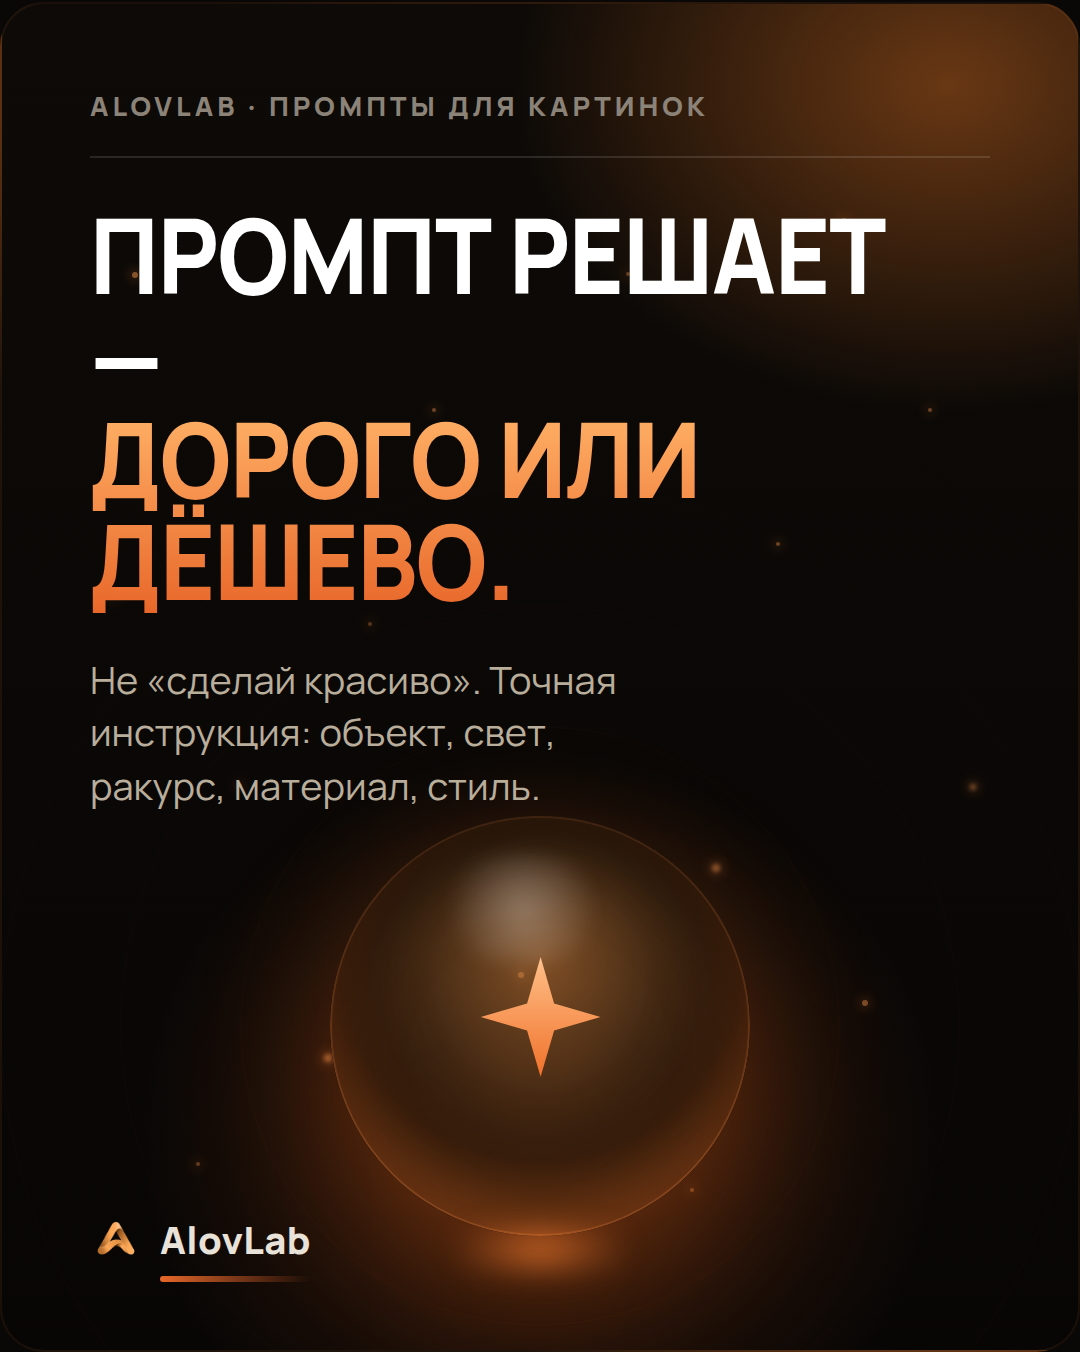
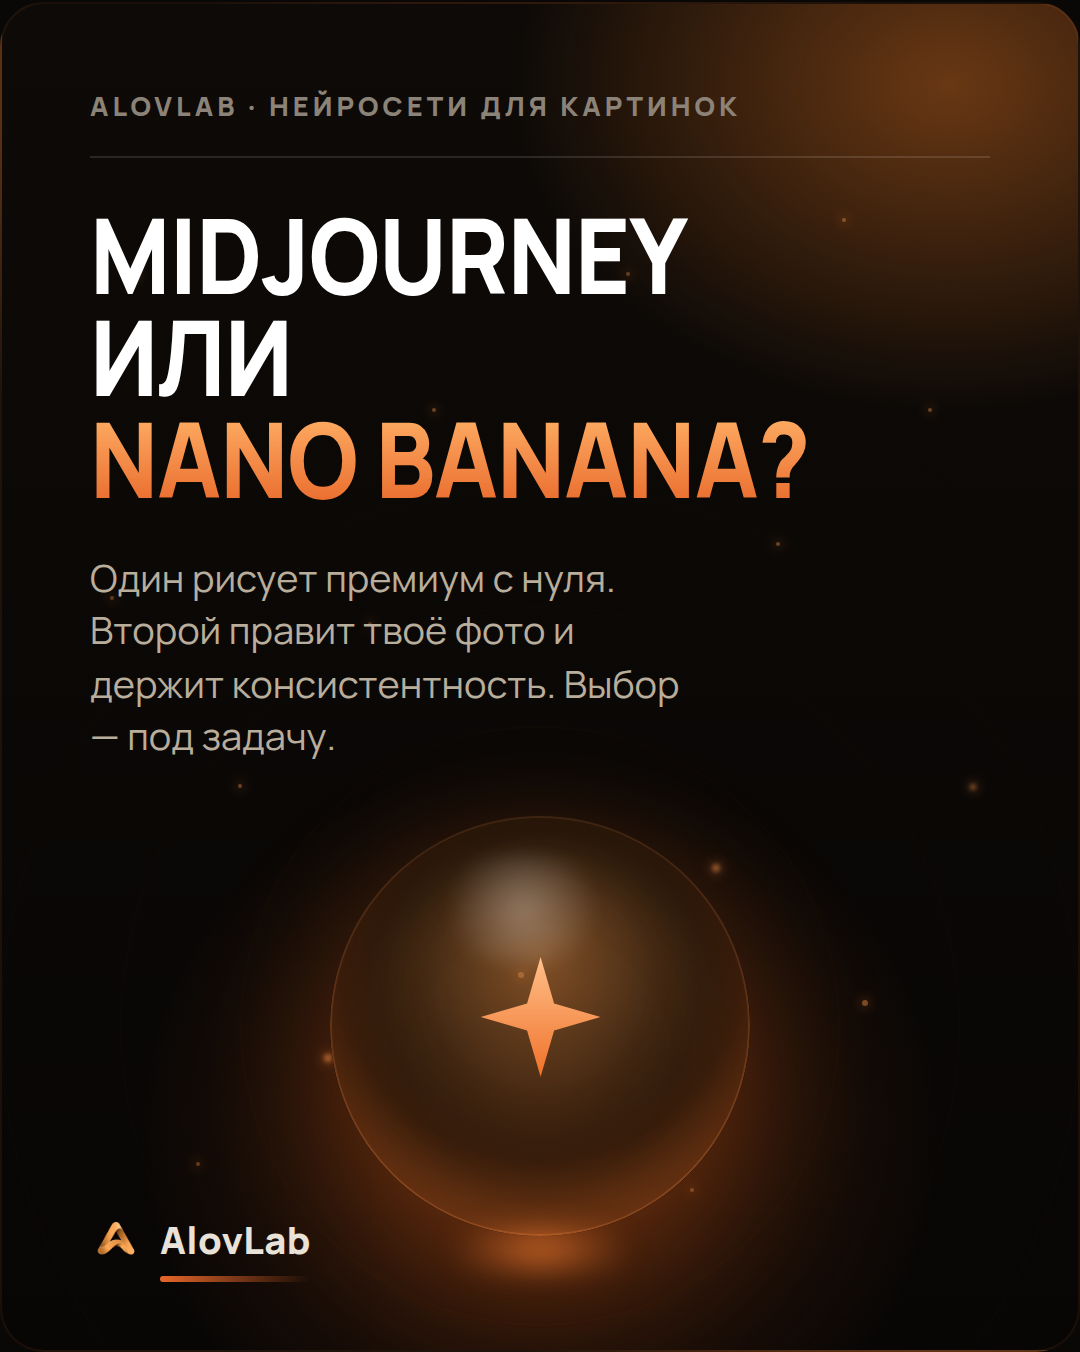
redesign(carousel): промпты под Midjourney + Nano Banana (экспертно)
Переделано под 2 инструмента + другие по смыслу (Ideogram, Higgsfield/Kling, ElevenLabs, HeyGen).
Экспертный уровень: слайд «что чем делать» (MJ с нуля vs Nano Banana редактура/консистентность/текст),
5 задач с правильным инструментом + промпт с синтаксисом (--ar/--style raw/--sref/--cref) + приём,
слайд-конвейер (картинка→видео→голос→аватар). 9 слайдов.

Claude-Session: https://claude.ai/code/session_019LoRMaWcrsShywAHDg8vmg

Changed region(s): [[0.0611, 0.1553, 0.825, 0.5902], [0.275, 0.0621, 0.6722, 0.0932]]

diff --git a/scripts/carousel_showcase_prompts.py b/scripts/carousel_showcase_prompts.py
@@ -1,7 +1,8 @@
 # -*- coding: utf-8 -*-
-"""AlovLab · showcase-карусель «Промпт решает: дорого или дёшево».
-На КАЖДОМ слайде: рисунок темы + ПОЛЬЗА (для чего/бизнес) + НЕЙРОСЕТЬ + готовый ПРОМПТ + разбор.
-Стиль showcase. RU кроме AlovLab и промптов (EN). Запуск: python3 scripts/carousel_showcase_prompts.py
+"""AlovLab · showcase-карусель «Midjourney и Nano Banana: что чем делать» (экспертная).
+На каждом слайде: рисунок темы + КАКОЙ инструмент и почему + бизнес + готовый промпт с синтаксисом + приём.
+Nano Banana = image-модель Google (редактура/консистентность/текст). Midjourney = премиум с нуля.
+Стиль showcase. RU кроме подписи AlovLab и промптов (EN). Запуск: python3 scripts/carousel_showcase_prompts.py
 """
 import pathlib
 from carousel_showcase_render import (CSS as CSS0, DEFS, FOOT, sparks, rings, icon, ICONS, LOGO, ROOT)
@@ -10,53 +11,67 @@ OUTDIR = ROOT / "exports" / "carousels" / "prompts"; OUTDIR.mkdir(parents=True, 
 OUT = OUTDIR / "prompts.html"
 
 EXTRA = r"""
-.hsm .head h2{font-size:36px}
-.info{position:relative;z-index:4;margin-top:16px;display:grid;grid-template-columns:70px 1fr;gap:15px;align-items:center}
-.info .ill{width:70px;height:70px;border-radius:15px;flex:0 0 auto;display:grid;place-items:center;
+.hsm .head h2{font-size:35px}
+.info{position:relative;z-index:4;margin-top:15px;display:grid;grid-template-columns:66px 1fr;gap:14px;align-items:center}
+.info .ill{width:66px;height:66px;border-radius:15px;display:grid;place-items:center;
  background:radial-gradient(circle at 50% 34%,rgba(255,160,80,.28),rgba(22,13,7,.92) 62%);
  border:1px solid rgba(255,160,90,.28);box-shadow:inset 0 -10px 20px rgba(255,120,40,.25),0 10px 26px -10px rgba(255,110,30,.3)}
 .info .ill svg{width:60%;height:60%}
 .info .rows{display:flex;flex-direction:column;gap:6px}
 .info .r{font-size:12.5px;line-height:1.25;color:#fff;font-weight:600}
-.info .r b{display:inline-block;min-width:74px;color:var(--o2);font-weight:800;text-transform:uppercase;font-size:9.5px;letter-spacing:.05em}
-.pbox{position:relative;z-index:4;margin-top:16px;background:#120c06;border:1px solid rgba(255,150,80,.28);
- border-left:3px solid var(--o);border-radius:14px;padding:16px 18px}
+.info .r b{display:inline-block;min-width:72px;color:var(--o2);font-weight:800;text-transform:uppercase;font-size:9.5px;letter-spacing:.05em}
+.info .r i{font-style:normal;color:#b9ad9b}
+.pbox{position:relative;z-index:4;margin-top:14px;background:#120c06;border:1px solid rgba(255,150,80,.28);
+ border-left:3px solid var(--o);border-radius:14px;padding:15px 17px}
 .pbox .tag{display:inline-block;font-weight:800;font-size:9px;letter-spacing:.1em;text-transform:uppercase;color:#160e07;
- background:linear-gradient(150deg,var(--o2),var(--o));padding:5px 10px;border-radius:6px;margin-bottom:11px}
-.pbox code{display:block;font-family:'SF Mono',ui-monospace,Menlo,Consolas,monospace;font-size:12px;line-height:1.52;
+ background:linear-gradient(150deg,var(--o2),var(--o));padding:5px 10px;border-radius:6px;margin-bottom:10px}
+.pbox code{display:block;font-family:'SF Mono',ui-monospace,Menlo,Consolas,monospace;font-size:11.5px;line-height:1.5;
  color:#ffd9b8;white-space:pre-wrap;word-break:break-word}
-.pbox .ru{margin-top:11px;padding-top:10px;border-top:1px solid rgba(255,255,255,.1);font-size:11.5px;line-height:1.4;color:#b9ad9b}
+.pbox .ru{margin-top:10px;padding-top:9px;border-top:1px solid rgba(255,255,255,.1);font-size:11px;line-height:1.38;color:#b9ad9b}
 .pbox .ru b{color:#fff}
+.pbox .tip{margin-top:7px;font-size:11px;line-height:1.35;color:var(--o2);font-weight:700}
+
+.vs{position:relative;z-index:4;margin-top:18px;display:grid;grid-template-columns:1fr 1fr;gap:12px}
+.vp{background:#140e07;border:1px solid rgba(255,150,80,.22);border-radius:16px;padding:16px 15px}
+.vp .nm{font-weight:800;font-size:16px;color:var(--o2);margin-bottom:9px}
+.vp .row{font-size:12px;color:#cfc3b2;line-height:1.3;padding:7px 0;border-top:1px solid rgba(255,255,255,.07)}
+.vp .row:first-of-type{border-top:none}
+
+.pipe{position:relative;z-index:4;margin-top:18px;display:flex;flex-direction:column;gap:9px}
+.pipe .step{display:grid;grid-template-columns:104px 1fr;gap:12px;align-items:center;background:#140e07;
+ border:1px solid rgba(255,150,80,.18);border-radius:13px;padding:13px 15px}
+.pipe .step .k{font-weight:800;font-size:13px;color:#fff}
+.pipe .step .v{font-size:12.5px;color:var(--o2);font-weight:700}
 """
 CSS = CSS0 + EXTRA
 
-# рисунки тем (line-art, оранжевый; используют #ig из DEFS слайда)
 SUB = {
  "dish":  '<svg viewBox="0 0 100 100" fill="none"><ellipse cx="50" cy="64" rx="33" ry="9" stroke="url(#ig)" stroke-width="5"/><path d="M35 60c3-12 27-12 30 0" stroke="url(#ig)" stroke-width="5"/><path d="M45 42c-3-8 4-11 2-19M55 44c-2-6 3-9 2-15" stroke="url(#ig)" stroke-width="4" opacity=".85" stroke-linecap="round"/></svg>',
- "bottle":'<svg viewBox="0 0 100 100" fill="none"><rect x="38" y="36" width="24" height="42" rx="6" stroke="url(#ig)" stroke-width="5"/><rect x="44" y="22" width="12" height="14" rx="2" stroke="url(#ig)" stroke-width="5"/><path d="M44 52h12" stroke="url(#ig)" stroke-width="4" stroke-linecap="round"/></svg>',
+ "edit":  '<svg viewBox="0 0 100 100" fill="none"><rect x="22" y="30" width="42" height="34" rx="6" stroke="url(#ig)" stroke-width="5"/><path d="M58 68l16-16 6 6-16 16-8 2z" stroke="url(#ig)" stroke-width="4.5" stroke-linejoin="round"/></svg>',
+ "consist":'<svg viewBox="0 0 100 100" fill="none"><circle cx="40" cy="42" r="11" stroke="url(#ig)" stroke-width="4.5"/><circle cx="62" cy="42" r="11" stroke="url(#ig)" stroke-width="4.5" opacity=".55"/><path d="M24 76c0-11 8-18 16-18s16 7 16 18" stroke="url(#ig)" stroke-width="4.5"/></svg>',
  "portrait":'<svg viewBox="0 0 100 100" fill="none"><circle cx="50" cy="40" r="13" stroke="url(#ig)" stroke-width="5"/><path d="M27 78c0-14 10-21 23-21s23 7 23 21" stroke="url(#ig)" stroke-width="5"/></svg>',
- "interior":'<svg viewBox="0 0 100 100" fill="none"><path d="M50 20v13M41 33h18l-4 11H45z" stroke="url(#ig)" stroke-width="4.5" stroke-linejoin="round"/><path d="M28 76h44M35 76V56h30v20" stroke="url(#ig)" stroke-width="4.5" stroke-linejoin="round"/></svg>',
- "ring":  '<svg viewBox="0 0 100 100" fill="none"><circle cx="50" cy="60" r="19" stroke="url(#ig)" stroke-width="5"/><path d="M42 34l8-11 8 11-8 8z" stroke="url(#ig)" stroke-width="4.5" stroke-linejoin="round"/></svg>',
+ "text":  '<svg viewBox="0 0 100 100" fill="none"><path d="M28 32h44M50 32v42M40 74h20" stroke="url(#ig)" stroke-width="6" stroke-linecap="round"/></svg>',
 }
 
 def cover(hw, ho, sub, ic):
     return f"""<article class="slide cover">{DEFS}
   <div class="sparks">{sparks()}</div>
   <div class="stage"><div class="rings">{rings()}</div><div class="orbw"><div class="orb big">{icon(ic)}</div></div></div>
-  <div class="top"><span class="eb">AlovLab · промпты для картинок</span></div>
+  <div class="top"><span class="eb">AlovLab · нейросети для картинок</span></div>
   <div class="head"><h2><span class="w">{hw}</span><span class="o">{ho}</span></h2></div>
   <div class="sub">{sub}</div>
   {FOOT}
 </article>"""
 
-def prm(num, total, hw, ho, ill, net, biz, code, ru):
+def prm(num, total, hw, ho, ill, net, netwhy, biz, code, ru, tip):
     return f"""<article class="slide hsm">{DEFS}
   <div class="sparks">{sparks()}</div>
   <div class="top"><span class="eb">Промпт</span><span class="pg">{num}<b> / {total}</b></span></div>
   <div class="head"><h2><span class="w">{hw}</span><span class="o">{ho}</span></h2></div>
   <div class="info"><div class="ill">{SUB[ill]}</div>
-    <div class="rows"><div class="r"><b>Нейросеть</b> {net}</div><div class="r"><b>Бизнес</b> {biz}</div></div></div>
-  <div class="pbox"><span class="tag">Скопировать</span><code>{code}</code><div class="ru"><b>Разбор:</b> {ru}</div></div>
+    <div class="rows"><div class="r"><b>Нейросеть</b> {net} <i>· {netwhy}</i></div><div class="r"><b>Бизнес</b> <i>{biz}</i></div></div></div>
+  <div class="pbox"><span class="tag">Скопировать</span><code>{code}</code>
+    <div class="ru"><b>Разбор:</b> {ru}</div><div class="tip">{tip}</div></div>
   {FOOT}
 </article>"""
 
@@ -72,51 +87,76 @@ def cta(hw, ho, items, btn):
   {FOOT}
 </article>"""
 
-FORMULA = """[объект]        — что в кадре
-[действие]      — что делает / остаётся стабильным
-[камера]        — 85mm, макро, ракурс
-[свет]          — тёплый боковой / контровой
-[стиль]         — editorial, food commercial
-[ограничения]   — no plastic, no distortion"""
+# --- слайды ---
+SLIDES = []
 
-SLIDES = [
- cover("Промпт решает —", "дорого или дёшево.",
-       "Не «сделай красиво». Точная инструкция: объект, свет, ракурс, материал, стиль.", "spark"),
- f"""<article class="slide hsm">{DEFS}
+SLIDES.append(cover("Midjourney или", "Nano Banana?",
+  "Один рисует премиум с нуля. Второй правит твоё фото и держит консистентность. Выбор — под задачу.", "spark"))
+
+# 2 · что чем делать (vs)
+SLIDES.append(f"""<article class="slide hsm">{DEFS}
   <div class="sparks">{sparks()}</div>
-  <div class="top"><span class="eb">Формула</span><span class="pg">0 / 5</span></div>
-  <div class="head"><h2><span class="w">Формула</span><span class="o">премиум-кадра</span></h2></div>
-  <div class="pbox"><span class="tag">Структура</span><code>{FORMULA}</code>
-    <div class="ru"><b>Разбор:</b> одна деталь = одна инструкция. Чем точнее — тем дороже кадр и меньше попыток.</div></div>
-  {FOOT}
-</article>""",
- prm(1,5,"Дорогое","фото блюда","dish","Midjourney · Flux","ресторан · кафе · доставка",
-   "A gourmet scallop on dark stone, warm amber side-light, delicate rising steam, glossy sauce highlights, shallow depth of field, moody near-black background with warm bokeh, 85mm, editorial food commercial, hyper-detailed, no plastic look.",
-   "объект + тёплый боковой свет + пар + тёмный фон + макро-оптика + запрет «пластика»."),
- prm(2,5,"Премиум","карточка товара","bottle","Recraft · Flux · Midjourney","e-com · бренд · маркетплейс",
-   "A luxury perfume bottle on wet black marble, soft top light with one warm rim light, subtle reflections and condensation, deep shadows, minimalist premium advertising, macro, ultra-detailed, balanced exposure.",
-   "товар + мокрый отражающий стол + один контровой свет + минимализм + макро."),
- prm(3,5,"Обложечный","портрет","portrait","Flux · Midjourney","эксперт · коуч · личный бренд",
-   "Editorial portrait of a confident founder in a dark studio, warm rim light on the face, soft key from camera-left, shallow depth of field, cinematic color grade, 85mm, natural skin texture, magazine-cover quality.",
-   "портрет + тёмная студия + контровой + мягкий ключевой сбоку + натуральная кожа."),
- prm(4,5,"Кинематографичный","интерьер","interior","Midjourney · Flux","отель · ресторан · недвижимость",
-   "Upscale restaurant interior at dusk, warm pendant lights and candle glow, deep perspective, warm bokeh, moody cinematic tones, architectural-digest style, realistic, balanced exposure, no distortion.",
-   "интерьер + тёплые лампы + глубина + кинотон + без искажения геометрии."),
- prm(5,5,"Ювелирный","макро-кадр","ring","Midjourney · Flux","ювелирка · люкс · аксессуары",
-   "Macro of a diamond ring on dark velvet, a single warm key light creating sharp sparkle and caustics, deep black background, luxury jewelry advertising, ultra-detailed, shallow depth of field, no blown highlights.",
-   "украшение + чёрный бархат + один жёсткий свет для блеска + макро + без пересветов."),
- cta("Забери","набор промптов.",
-     ["<b>готовые промпты</b> под еду, товар, портрет, интерьер, украшение",
-      "формула, по которой соберёшь свой под любую нишу",
-      "негатив-лист, чтобы не было «пластика» и артефактов"],
-     "Промпты → t.me/AlovLab"),
-]
+  <div class="top"><span class="eb">Что чем делать</span><span class="pg">0 / 5</span></div>
+  <div class="head"><h2><span class="w">Два инструмента —</span><span class="o">разные задачи.</span></h2></div>
+  <div class="vs">
+    <div class="vp"><div class="nm">Midjourney</div>
+      <div class="row">рисует премиум с нуля</div><div class="row">эстетика и стиль</div>
+      <div class="row">параметры: --ar, --sref, --stylize</div><div class="row">слабый текст на картинке</div></div>
+    <div class="vp"><div class="nm">Nano Banana</div>
+      <div class="row">правит твоё фото</div><div class="row">держит лицо и объект</div>
+      <div class="row">понимает точные инструкции</div><div class="row">рендерит читаемый текст</div></div>
+  </div>
+</article>""")
 
-HTML = f"""<title>Промпт решает: дорого или дёшево · AlovLab</title><meta name="viewport" content="width=device-width, initial-scale=1">
+SLIDES.append(prm(1,5,"Премиум","с нуля","dish","Midjourney","рисует с нуля","ресторан · e-com · бренд",
+  "gourmet scallop on dark stone, warm amber side light, delicate rising steam, glossy sauce, shallow depth of field, moody near-black background, editorial food commercial, hyper-detailed --ar 4:5 --style raw --stylize 250",
+  "--ar 4:5 формат · --style raw убирает «миджорнишность» · --stylize держит фотореализм.",
+  "Приём: --sref &lt;ссылка&gt; — один стиль на всю ленту."))
+
+SLIDES.append(prm(2,5,"Правки","на твоём фото","edit","Nano Banana","правит твоё фото","любой товар · карточки",
+  "[загрузи фото товара] Replace the cluttered background with a clean warm-lit studio backdrop. Keep the product, its label and reflections exactly the same. Match the lighting to the product.",
+  "Редактирует загруженный кадр и держит объект неизменным — Midjourney так не умеет.",
+  "Приём: подгрузи 1–3 референса — смешает и сохранит детали."))
+
+SLIDES.append(prm(3,5,"Один герой","в 10 кадрах","consist","Nano Banana","консистентность лица","личный бренд · эксперт",
+  "[загрузи портрет] Place the same person in a dark upscale studio with warm rim light. Keep the exact face, hairstyle and outfit. Editorial magazine look, 85mm.",
+  "Держит одно лицо на серии — аватар бренда и линейка постов из одного героя.",
+  "Приём: в Midjourney так же — --cref &lt;ссылка&gt; --cw 100."))
+
+SLIDES.append(prm(4,5,"Обложечный","портрет","portrait","Midjourney","эстетика с нуля","эксперт · фэшн · бренд",
+  "editorial portrait of a confident founder, dark studio, warm rim light, soft key camera-left, 85mm, natural skin texture, cinematic color grade, magazine cover --ar 4:5 --style raw --stylize 200",
+  "MJ даёт «дорогую» эстетику из ничего — но не редактирует твоё фото.",
+  "Приём: --seed &lt;число&gt; — повторить и доснять кадр в том же стиле."))
+
+SLIDES.append(prm(5,5,"Текст","и упаковка","text","Nano Banana · Ideogram","текст и упаковка","упаковка · баннеры · обложки",
+  "[фон-референс] Add the headline 'ALOVLAB' in clean bold type, perfectly legible, integrated into the warm dark premium scene, subtle glow, no distortion.",
+  "Nano Banana и Ideogram рендерят читаемый текст — Midjourney буквы ломает.",
+  "Приём: сложную типографику бери в Ideogram."))
+
+# 8 · дальше по конвейеру
+SLIDES.append(f"""<article class="slide hsm">{DEFS}
+  <div class="sparks">{sparks()}</div>
+  <div class="top"><span class="eb">Конвейер</span></div>
+  <div class="head"><h2><span class="w">Картинка — старт.</span><span class="o">Дальше — конвейер.</span></h2></div>
+  <div class="pipe">
+    <div class="step"><span class="k">Картинка</span><span class="v">Midjourney · Nano Banana</span></div>
+    <div class="step"><span class="k">Оживить в видео</span><span class="v">Higgsfield · Kling</span></div>
+    <div class="step"><span class="k">Голос</span><span class="v">ElevenLabs</span></div>
+    <div class="step"><span class="k">Говорящий аватар</span><span class="v">HeyGen</span></div>
+  </div>
+</article>""")
+
+SLIDES.append(cta("Забери","набор промптов.",
+  ["<b>шпаргалка</b> «что чем делать»: MJ · Nano Banana · Ideogram",
+   "готовые промпты с параметрами под каждую задачу",
+   "приёмы: --sref, --cref, редактура и консистентность"],
+  "Промпты → t.me/AlovLab"))
+
+HTML = f"""<title>Midjourney и Nano Banana · промпты · AlovLab</title><meta name="viewport" content="width=device-width, initial-scale=1">
 <style>{CSS}</style>
 <div class="page">
-  <div class="lead"><span class="eb">AlovLab · showcase · высококачественные промпты</span>
-    <h1>Одним постом: обложка → формула → 5 промптов (рисунок + нейросеть + бизнес + промпт) → CTA.</h1></div>
+  <div class="lead"><span class="eb">AlovLab · showcase · Midjourney и Nano Banana</span>
+    <h1>Экспертно: какой инструмент под какую задачу + готовые промпты с синтаксисом и приёмами.</h1></div>
   <div class="grid">
 {''.join(SLIDES)}
   </div>
